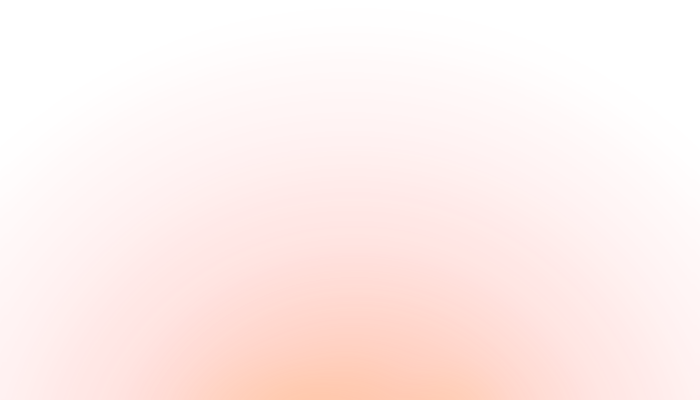
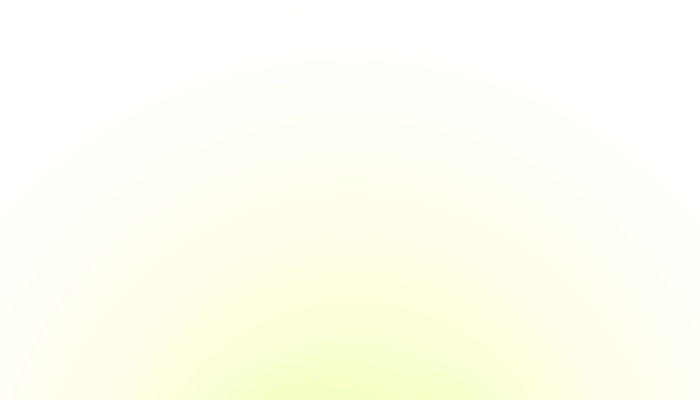
Restyled design

Changed region(s): [[0.12, 0.54, 0.87, 1.0]]

diff --git a/_sass/_layout.scss b/_sass/_layout.scss
@@ -33,9 +33,9 @@ $width:85%;
 $borderRadius:15px;
 
 // Link color
-$linkColor:#00b4ff;
+$linkColor:#00ff72;
 
-$captionColor:#ff7800;
+$captionColor:#e3ff82;
 
 // 1. Imports
 // --------------------------------------------------
@@ -135,8 +135,8 @@ a {
 
 		&.current {
 
-			border-left:1px solid #000214;
-			border-right:1px solid #000214;
+			border-left:1px solid #001408;
+			border-right:1px solid #001408;
 			a:hover {
 				cursor: default;
 			}
@@ -146,7 +146,7 @@ a {
 			background-size: 100% 100%;
 
 			a, a:hover {
-				color:#ff7800;
+				color:#e3ff82;
 				text-shadow:0px 0px 10px #ff4e00;
 				background-image:none;
 			}
@@ -178,8 +178,8 @@ a {
 
 		a:hover {
 			text-decoration: none;
-			color:#00ccff;
-			text-shadow:0px 0px 7px #0000ff;
+			color:#00ff7e;
+			text-shadow:0px 0px 7px #e3ff82;
 			background-image:url('/img/menu_hover_lighted.png');
 			background-repeat:no-repeat;
 			background-size: 100% 100%;
@@ -189,7 +189,7 @@ a {
 
 .countdown {
 	font-size:20px;
-	text-shadow:0px 0px 10px #0000ff;
+	text-shadow:0px 0px 10px #00ff42;
 	color:#00c0ff;
 	box-shadow:0px 1px 8px black;
 	background-color:black;
@@ -354,7 +354,7 @@ select {
 			color:$linkColor;
 			font-size:34px;
 			margin-bottom:20px;
-			text-shadow:0px 0px 6px #0000ff;
+			text-shadow:0px 0px 6px #00ff42;
 		}
 
 		ul {
@@ -389,7 +389,7 @@ select {
 
 	.info {
 		font-size:16px;
-		color:#444;
+		color:$captionColor;
 		margin-bottom:7px;
 
 		a {
@@ -398,7 +398,7 @@ select {
 
 		a:hover {
 			color:#90ff00;
-			text-shadow:0px 0px 3px #0000ff;
+			text-shadow:0px 0px 3px #00ff42;
 		}
 	}
 }
@@ -537,7 +537,7 @@ a {
    }
 
    .head {
-   	  color:#444;
+   	  color:$captionColor;
    	  background-image:url('/img/transparent.png');
 	  background-repeat:repeat;
    }
@@ -551,7 +551,7 @@ a {
 a:hover {
 	text-decoration: none;
 	color:#00baff;
-	text-shadow:0px 0px 7px #0000ff;
+	text-shadow:0px 0px 7px #00ff42;
 }
 
 .message {
@@ -636,7 +636,6 @@ a:hover {
 		background-image:url('/img/transparent.png');
 		background-repeat:repeat;
 		display:block;
-		width:100%;
 		border-bottom-left-radius: $borderRadius;
 		border-bottom-right-radius: $borderRadius;
 		padding:20px;

diff --git a/_layouts/default.html b/_layouts/default.html
@@ -2,13 +2,13 @@
 <html lang="en">
 	<head>
 		<meta charset="utf-8"/>
-		<title>Brutal Dedication - We LIVE Wildstar</title>
+		<title>Weltenwandler</title>
 		<meta name="viewport" content="width=device-width, initial-scale=1.0"> <!-- responsive site -->
 		<meta http-equiv="X-UA-Compatible" content="IE=edge,chrome=1"> <!-- chrome frame -->
 		<meta name="viewport" content="user-scalable=no"> <!-- prevents browser zoom on small devices -->
 		<link rel="author" href="humans.txt">
 		<meta name="description" content="Description Goes Here">
-		<link rel="stylesheet" href="/css/main.css">	
+		<link rel="stylesheet" href="/css/main.css">
 	    <!--[if lt IE 9]><script src="http://html5shim.googlecode.com/svn/trunk/html5.js"></script><![endif]-->
 
 		<!-- Icon -->

diff --git a/_layouts/post.html b/_layouts/post.html
@@ -2,7 +2,7 @@
 <html lang="en">
 <head>
 	<meta charset="utf-8"/>
-	<title>Brutal Dedication - We LIVE Wildstar</title>
+	<title>Weltenwandler</title>
 	<meta name="viewport" content="width=device-width, initial-scale=1.0"> <!-- responsive site -->
 	<meta http-equiv="X-UA-Compatible" content="IE=edge,chrome=1"> <!-- chrome frame -->
 	<meta name="viewport" content="user-scalable=no"> <!-- prevents browser zoom on small devices -->
